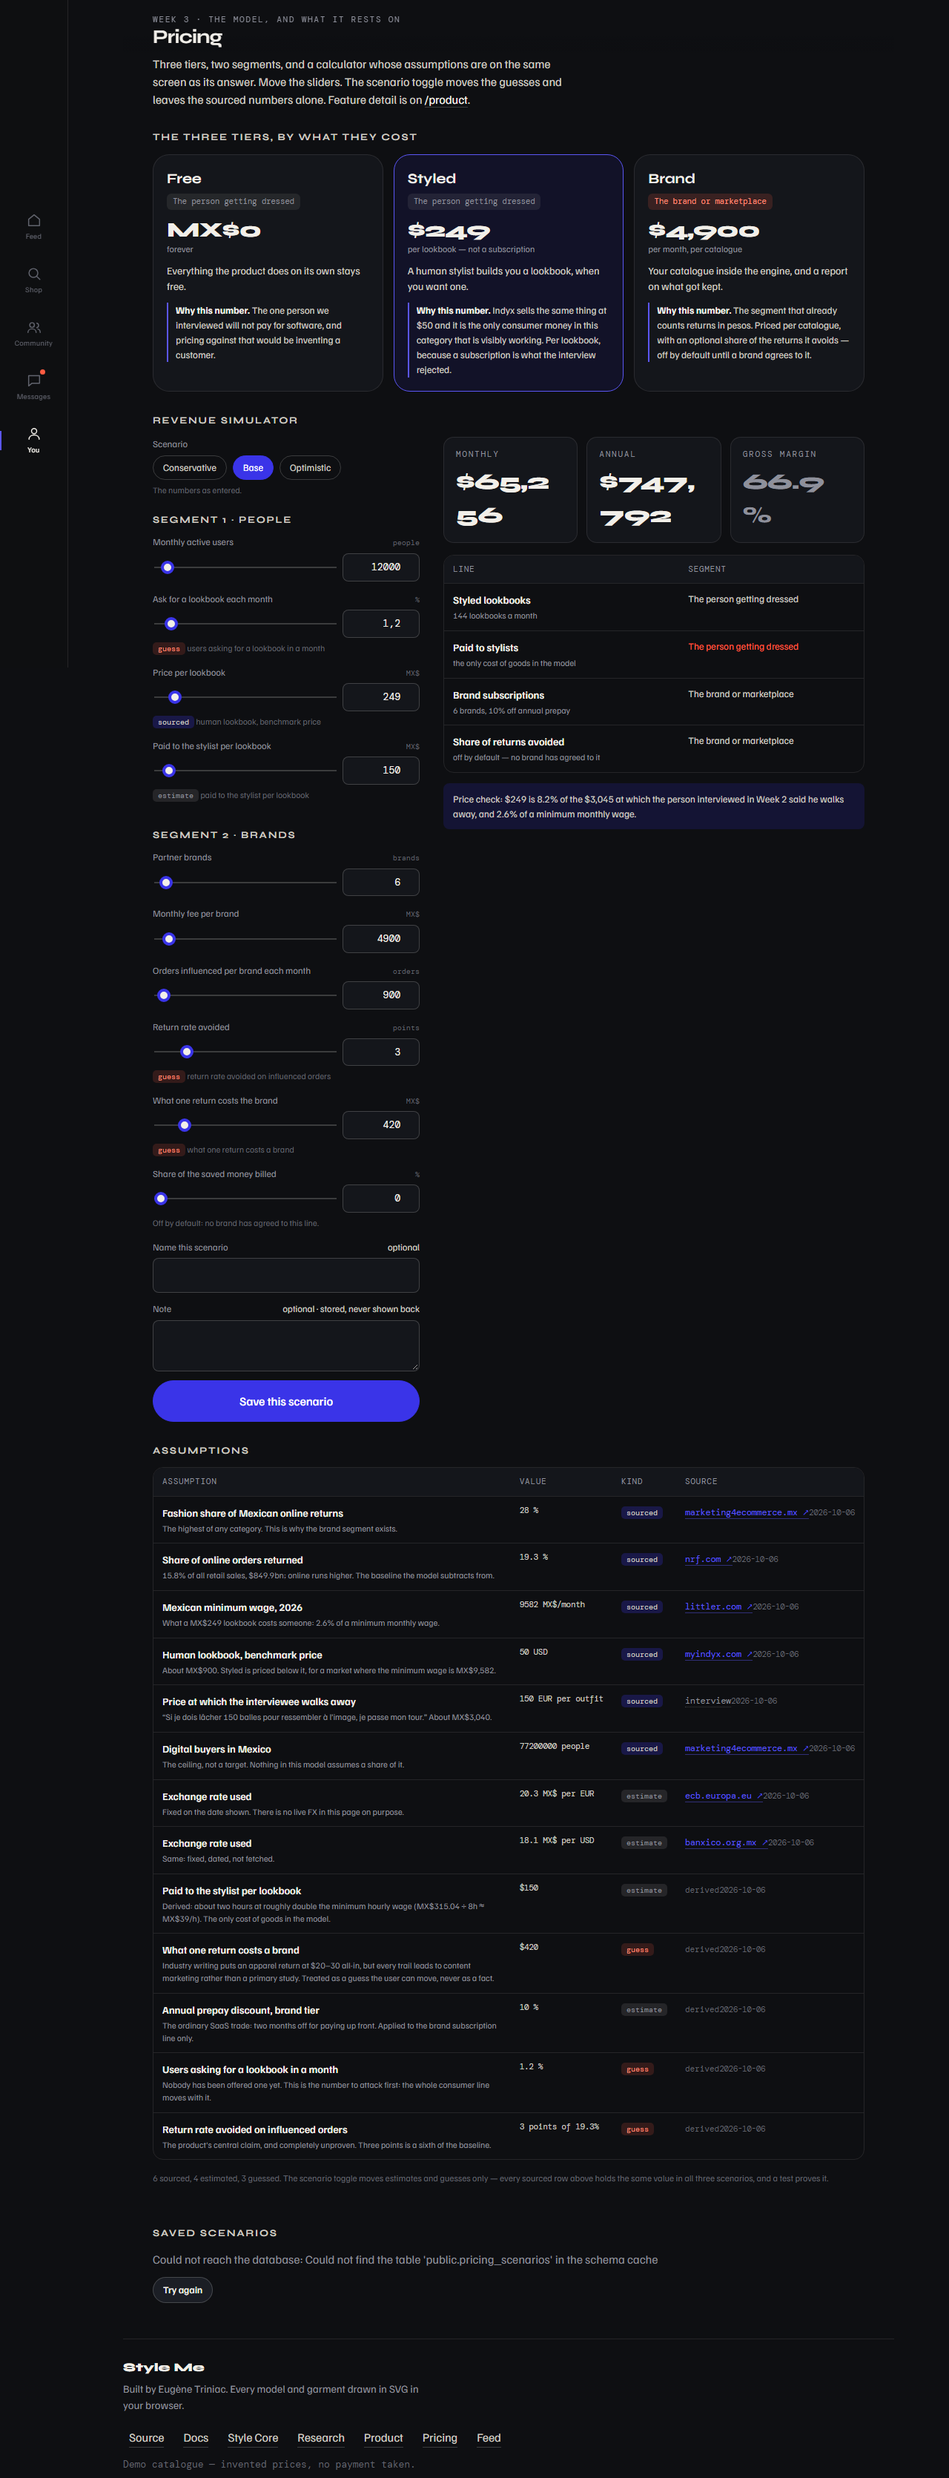
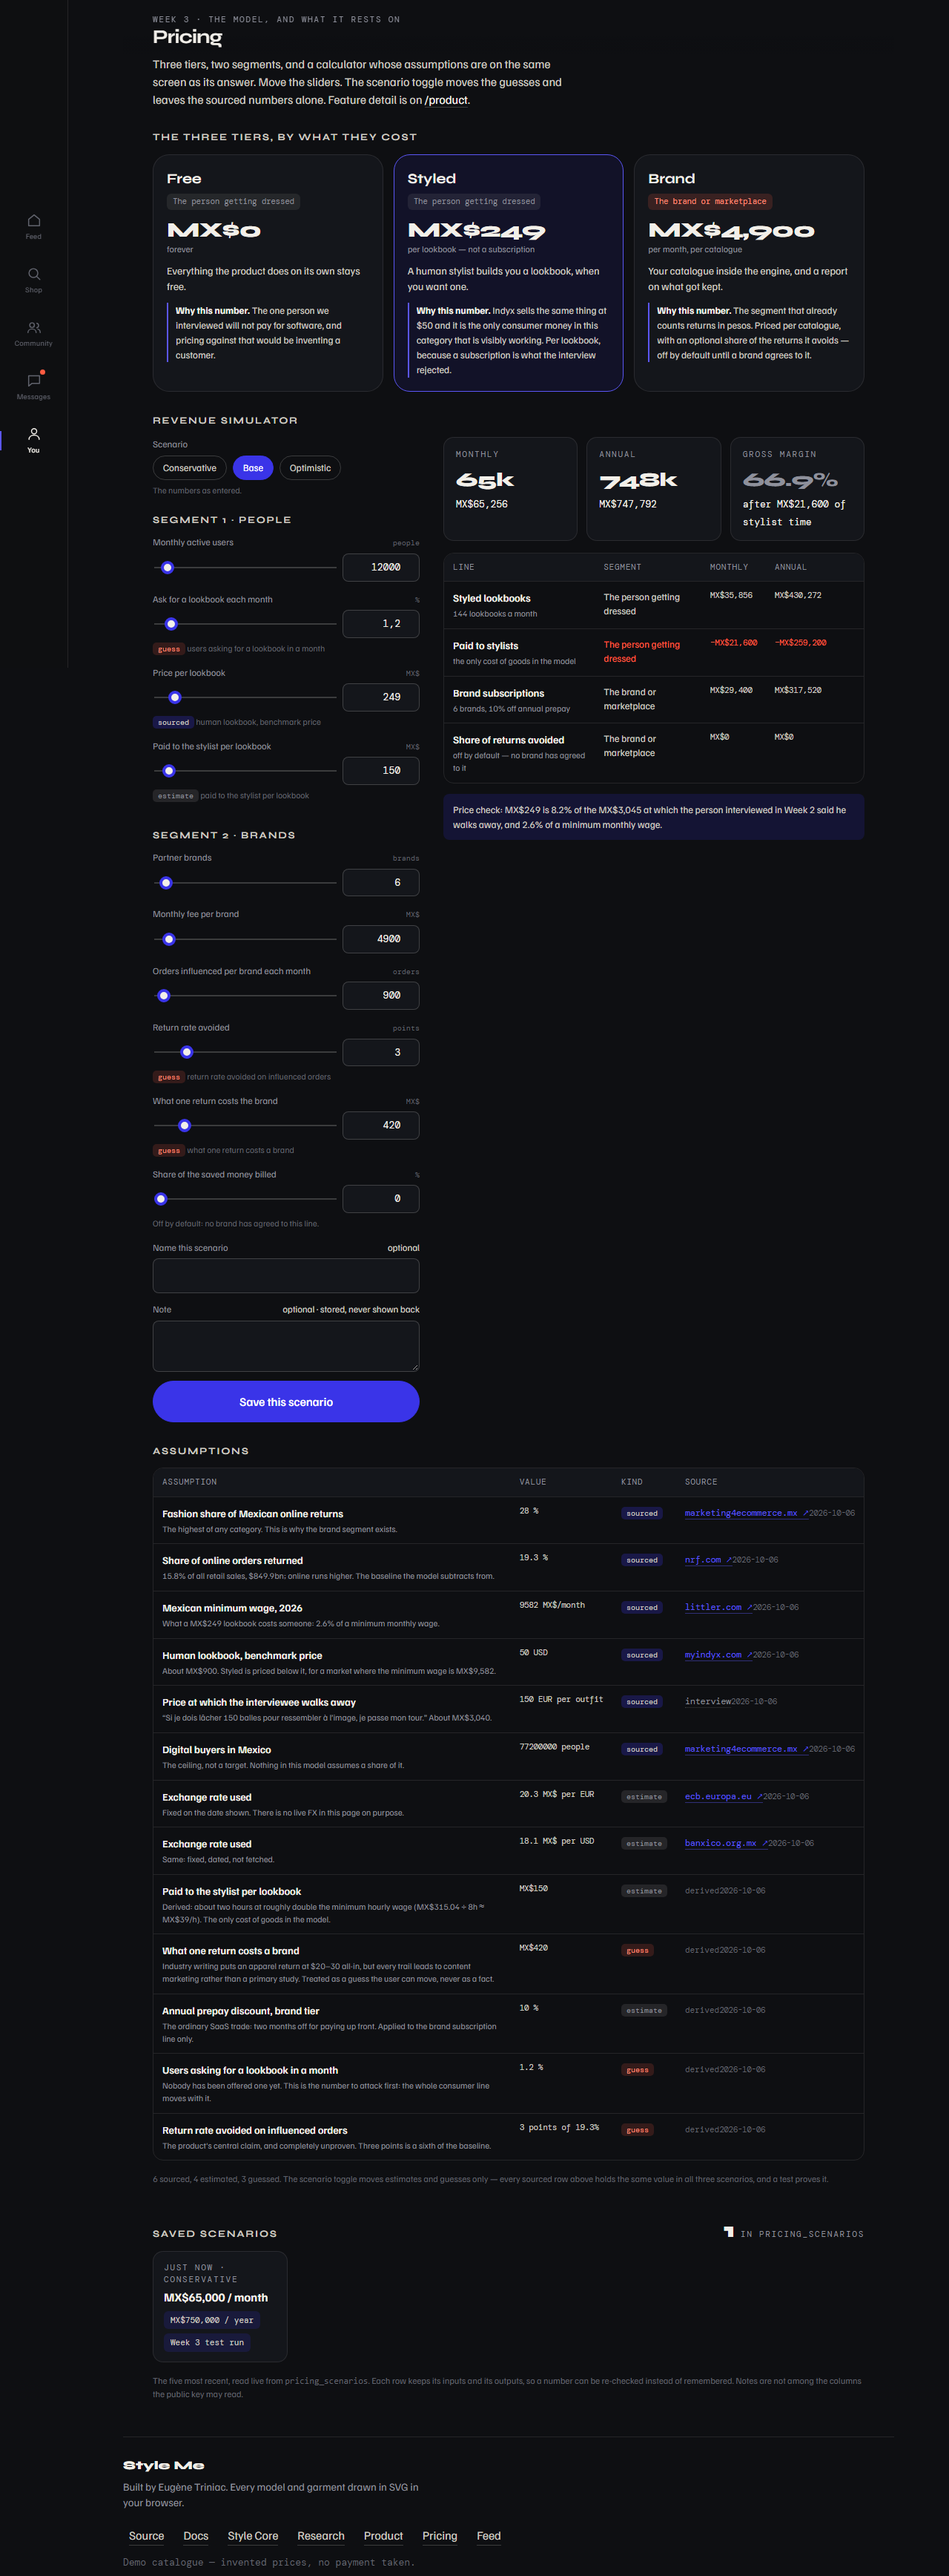
docs: preuves de la semaine 3 - six controles verts, Supabase, iteration
Les deux tests de logique tarifaire, les trois tests logiciels et le
controle de securite passent contre le site en ligne. La table
pricing_scenarios est creee, note est insert-only, verifie en base et
par l API. Cinq defauts documentes, dont trois vus en lisant une
capture plutot que par une assertion.

diff --git a/docs/week-3/test-evidence.md b/docs/week-3/test-evidence.md
@@ -1,0 +1,119 @@
+# Test Evidence — Week 3
+
+**Live pages under test:** https://style-me-five.vercel.app/product · https://style-me-five.vercel.app/pricing
+**Code under test:** deployment `8813f9a`
+**Final run:** 6 October 2026, 21:13 (Mexico City, UTC−6)
+
+The week asks for **2 pricing-logic tests and 3 software tests**. All five are
+scripted in `docs/week-3/run-tests.ps1`, plus the standing security check, and
+all six pass against the live site.
+
+---
+
+## The two pricing-logic tests
+
+These call `SM.pricing` directly, with no page involved. Arithmetic that can
+only be checked by clicking is arithmetic nobody checks.
+
+| # | What was checked | Actual | Pass |
+|---|---|---|---|
+| L1 | A case worked out **by hand first** and then written into the test: 20,000 users, 2% asking for a lookbook, MX$300 each, MX$120 to the stylist, 10 brands at MX$5,000, 1,000 orders each, 4 points of returns avoided at MX$500 a return, 10% of the saving billed | 400 lookbooks; MX$120,000 styled; MX$50,000 subscriptions; MX$20,000 from returns; **MX$190,000 a month**, **MX$2,220,000 a year**, margin **74.7%** — every figure equal to the hand computation; segments sum to the total; annual equals monthly × 12 less the 10% prepay discount on the brand line | ✅ |
+| L2 | Invariants: scenario ordering, the sourced-number rule, zero, and absurd inputs | conservative MX$25,457 ≤ base MX$65,256 ≤ optimistic MX$187,882 on both monthly and annual; **no sourced assumption changes value between scenarios**, checked both by value and structurally (no scenario multiplier reaches an input backed by a sourced assumption); zero users and zero brands give zero revenue; −50,000 users, −MX$10 prices and a 500% take rate are clamped to the declared bounds and produce no negative revenue | ✅ |
+
+Margin is deliberately **not** claimed to be monotone across scenarios: more
+lookbooks bring both more revenue and more stylist cost. The test asserts
+ordering on revenue only, and says so.
+
+## The three software tests
+
+| # | What was checked | Actual | Pass |
+|---|---|---|---|
+| S1 | Both pages load, console clean, and the three tiers read identically on `/product` and `/pricing` | 200 on both; console errors `[]` on both; the tier names, prices, units and segments scraped from each page's DOM are character-for-character equal; 10 calculator fields; 13 assumption rows; 12 feature rows, 7 built + 5 planned | ✅ |
+| S2 | Fill the calculator with values that are **not** the defaults, pick a non-default scenario, click Save twice, then read the written row back field by field | "Saved to Supabase"; total 0 → 1, so the double click made one row; the stored row carries `scenario: conservative`, `label: Week 3 test run`, `inputs.mau: 20000`, `inputs.takeRate: 10`, `assumptions_version: pricing-v1` — all as entered | ✅ |
+| S3 | Responsive sweep on **both** pages at 375, 414, 600, 768, 900 and 1280 px, and an HTTP request to every source cited in the assumptions table | 0 px overflow in all twelve combinations; 0 source failures | ✅ |
+| S4 | Security: the publishable key against `pricing_scenarios` | allowed columns 200 · `note` **401** · `select=*` **401** · `DELETE` **401** | ✅ |
+
+![The calculator: inputs on the left, revenue and the lines they come from on the right](evidence/pricing-calculator.png)
+
+![The assumptions table — sourced, estimated and guessed, each labelled](evidence/pricing-assumptions.png)
+
+![The three tiers as rendered on /product](evidence/product-tiers.png)
+
+![A scenario saved to Supabase from the live page](evidence/scenario-saved.png)
+
+## Regression: Weeks 1 and 2 still pass
+
+This week touched `views.js`, `app.js` and `app.css`, all shared with the Style
+Core and the research desk. Both earlier suites were re-run unchanged against
+the live site, and all ten of their checks still pass — results in
+`docs/week-3/evidence/regression/`. Those weeks' own evidence folders were
+restored afterwards: re-running their tests overwrites their screenshots, and
+evidence of a submitted week should not be quietly replaced by a later run.
+
+---
+
+## Defects found this week
+
+Five. Two in the page, and three in things that looked finished.
+
+### 1 — Two links in the feature map were lying
+
+The renderer row pointed at `/outfit`, which without an id falls through to the
+feed, and `/saved` sends a first-time visitor back to the welcome screen. On a
+table whose whole claim is "this column says what is real", both were wrong.
+The first now points at `/feed`, where the renderer actually runs; the second
+carries "after the style test" under the link. Found before pushing, by
+clicking them.
+
+### 2 — Figures breaking mid-number
+
+`MX$65,256` rendered as `MX$65,2` / `56`. The culprit was a rule I had added
+myself the week before: `overflow-wrap: anywhere`, which treats a thousands
+separator as a break opportunity. The figures are now compact (`65k`) with the
+exact amount on the line beneath.
+
+### 3 — The revenue columns were off the card
+
+The lines table inherited `min-width: 860px` from the research desk's table,
+where six verbose columns need it. Here it pushed **Monthly** and **Annual**
+outside the card, behind a horizontal scroll — the two numbers the page exists
+to show. A narrower floor for this table fixed it.
+
+### 4 — Amounts printed as a bare `$`
+
+`Intl.NumberFormat('es-MX', { currency: 'MXN' })` renders MXN as `$`, on a page
+that also quotes USD benchmarks and a euro walk-away price. Every amount is now
+written `MX$` explicitly — which also removed an inconsistency where tier cards
+said `MX$0` and the calculator said `$249`.
+
+### 5 — The dashboard session, not the database
+
+The project itself was awake, thanks to the keepalive added last week; the
+Supabase **dashboard login** had expired, which blocked the DDL and nothing
+else. Worth separating in the notes, because the two failures look identical
+from the page and have completely different fixes.
+
+All three of the visual ones were found by reading a screenshot. None of them
+would have failed an assertion I had written.
+
+---
+
+## Iteration log
+
+| # | What changed | Why | Commit |
+|---|---|---|---|
+| 1 | Renderer row points at `/feed`; `/saved` marked "after the style test" | Two links in the feature map did not go where they said | `082951a` |
+| 2 | Compact figures with the exact amount beneath | `MX$65,256` was breaking mid-number | `8813f9a` |
+| 3 | Narrower minimum width for the revenue table | Monthly and Annual sat outside the card | `8813f9a` |
+| 4 | `MX$` written out everywhere | A bare `$` is ambiguous on a page quoting USD and EUR | `8813f9a` |
+| 5 | Weeks 1 and 2 suites re-run, their evidence restored | Three shared files changed this week | `90f7694` |
+
+## What this round taught me
+
+The two logic tests were the cheap part: the model is arithmetic, and
+arithmetic is easy to pin down once it is in pure functions. What they cannot
+see is whether the number reaches the reader — and that is where all three
+visual defects lived, including one introduced by a fix I made last week.
+
+The rule worth keeping: **a test proves the number is right, a screenshot
+proves the number is readable**, and this project keeps needing both.

diff --git a/docs/week-3/supabase-evidence.md b/docs/week-3/supabase-evidence.md
@@ -1,0 +1,91 @@
+# Supabase Evidence — table `pricing_scenarios`
+
+**Project:** `ssyqkfqwhpvahtefmxdy` (Supabase Free, AWS us-east-2)
+**Table:** `public.pricing_scenarios`, created from `supabase/pricing_scenarios.sql`
+**Date:** 6 October 2026
+
+---
+
+## This week the project was already awake
+
+Weeks 1 and 2 both opened with the same chore: the free project had paused
+after seven idle days and had to be restored before anything could be saved.
+Week 2 ended by turning that mitigation into code — `api/keepalive.js`, run
+once a day by Vercel's scheduler.
+
+Twelve days later, with nobody opening the site in between, the project
+answered immediately:
+
+```
+GET https://style-me-five.vercel.app/api/keepalive
+{"ok":true,"checked":{"core_outputs":200,"research_records":200},"at":"2026-10-07T02:37:51.933Z"}
+```
+
+That is the first mitigation in this project confirmed by time rather than by
+argument, and it is the reason this week's Supabase work took two minutes
+instead of fifteen.
+
+The dashboard **login** is a different thing and did expire, which is now a
+known rhythm: roughly every two weeks, the session has to be renewed by hand
+before any DDL can run.
+
+## The table was created from the repository
+
+`supabase/pricing_scenarios.sql` was run in the SQL editor. As in Weeks 1 and
+2, the editor flagged it as containing destructive operations — the
+`drop policy if exists` and `revoke` lines that make the script safe to re-run.
+They touch nothing but the policies and grants of this one table.
+
+This is the project's **third** table, and `js/db.js` has still never been
+edited to accommodate one. Week 1's insert-and-list client took
+`research_records` unchanged, and took `pricing_scenarios` unchanged again.
+
+## What the public key may actually do
+
+Read-only query, run in the Supabase SQL editor after the table was created,
+copied verbatim:
+
+```sql
+select p.grantee, p.privilege_type as privilege,
+       string_agg(p.column_name, ', ' order by p.column_name) as columns
+from information_schema.column_privileges p
+where p.table_schema = 'public' and p.table_name = 'pricing_scenarios'
+  and p.grantee in ('anon', 'authenticated')
+group by p.grantee, p.privilege_type
+order by p.grantee, p.privilege_type;
+```
+
+| grantee | privilege | columns |
+|---|---|---|
+| anon | INSERT | arr_mxn, assumptions_version, inputs, label, mrr_mxn, **note**, outputs, scenario |
+| anon | SELECT | arr_mxn, assumptions_version, created_at, id, inputs, label, mrr_mxn, outputs, scenario |
+| authenticated | INSERT | arr_mxn, assumptions_version, inputs, label, mrr_mxn, **note**, outputs, scenario |
+| authenticated | SELECT | arr_mxn, assumptions_version, created_at, id, inputs, label, mrr_mxn, outputs, scenario |
+
+`note` appears in the INSERT list and is absent from the SELECT list, for both
+roles. No UPDATE or DELETE row exists for either, because neither was granted.
+
+Confirmed from outside the dashboard as well, against the live API with the
+publishable key:
+
+| Request | Result |
+|---|---|
+| `GET /pricing_scenarios?select=id,scenario,mrr_mxn` | 200 |
+| `GET /pricing_scenarios?select=note` | **401** |
+| `GET /pricing_scenarios?select=*` | **401** |
+| `DELETE /pricing_scenarios?id=eq.00000000-…` | **401** |
+
+## What the table holds
+
+One row, written by the live page's Save button during the final test run
+(times in Mexico City, UTC−6):
+
+| saved_at | label | scenario | MRR | ARR | version |
+|---|---|---|---|---|---|
+| 6 Oct 21:12 | Week 3 test run | conservative | MX$46,878 | MX$538,261 | pricing-v1 |
+
+The row keeps **both** its inputs and its outputs, which is the point. Keeping
+only the inputs would mean the row silently changes meaning the next time the
+model does; keeping only the outputs would mean nobody can ever ask where the
+number came from. `assumptions_version` says which dataset produced it, so a
+figure from today stays readable after the assumptions move.
